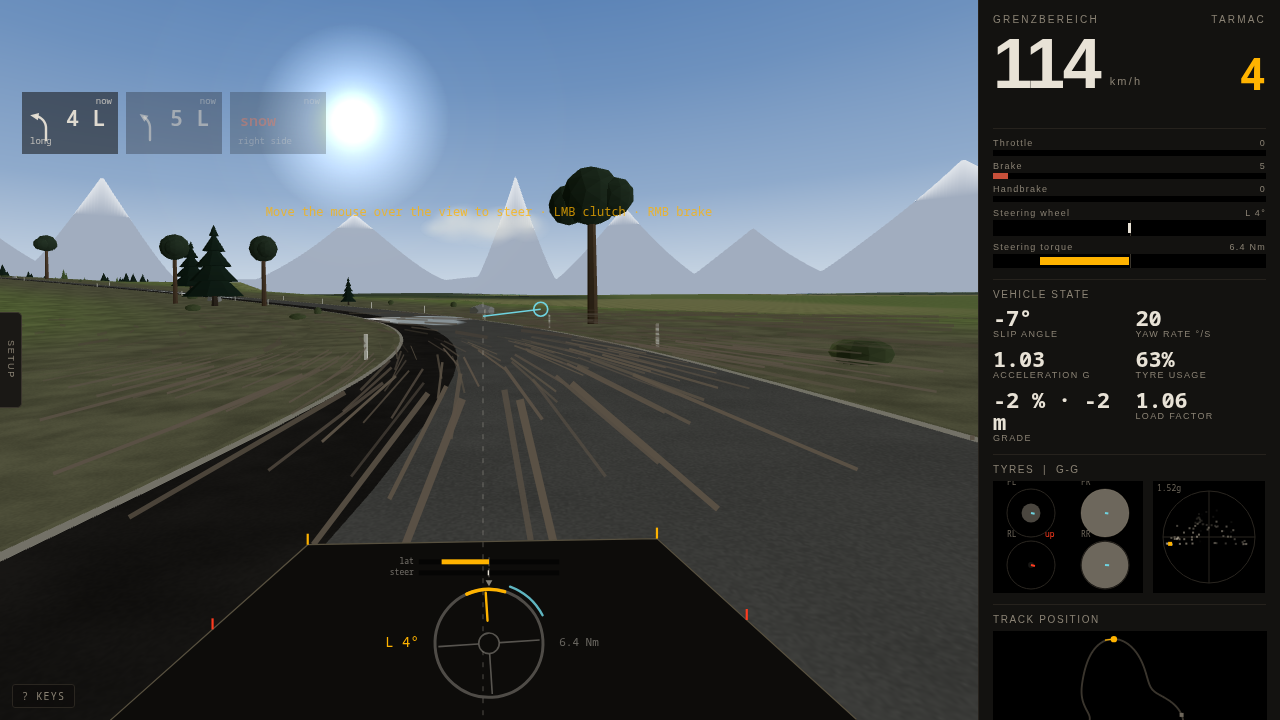
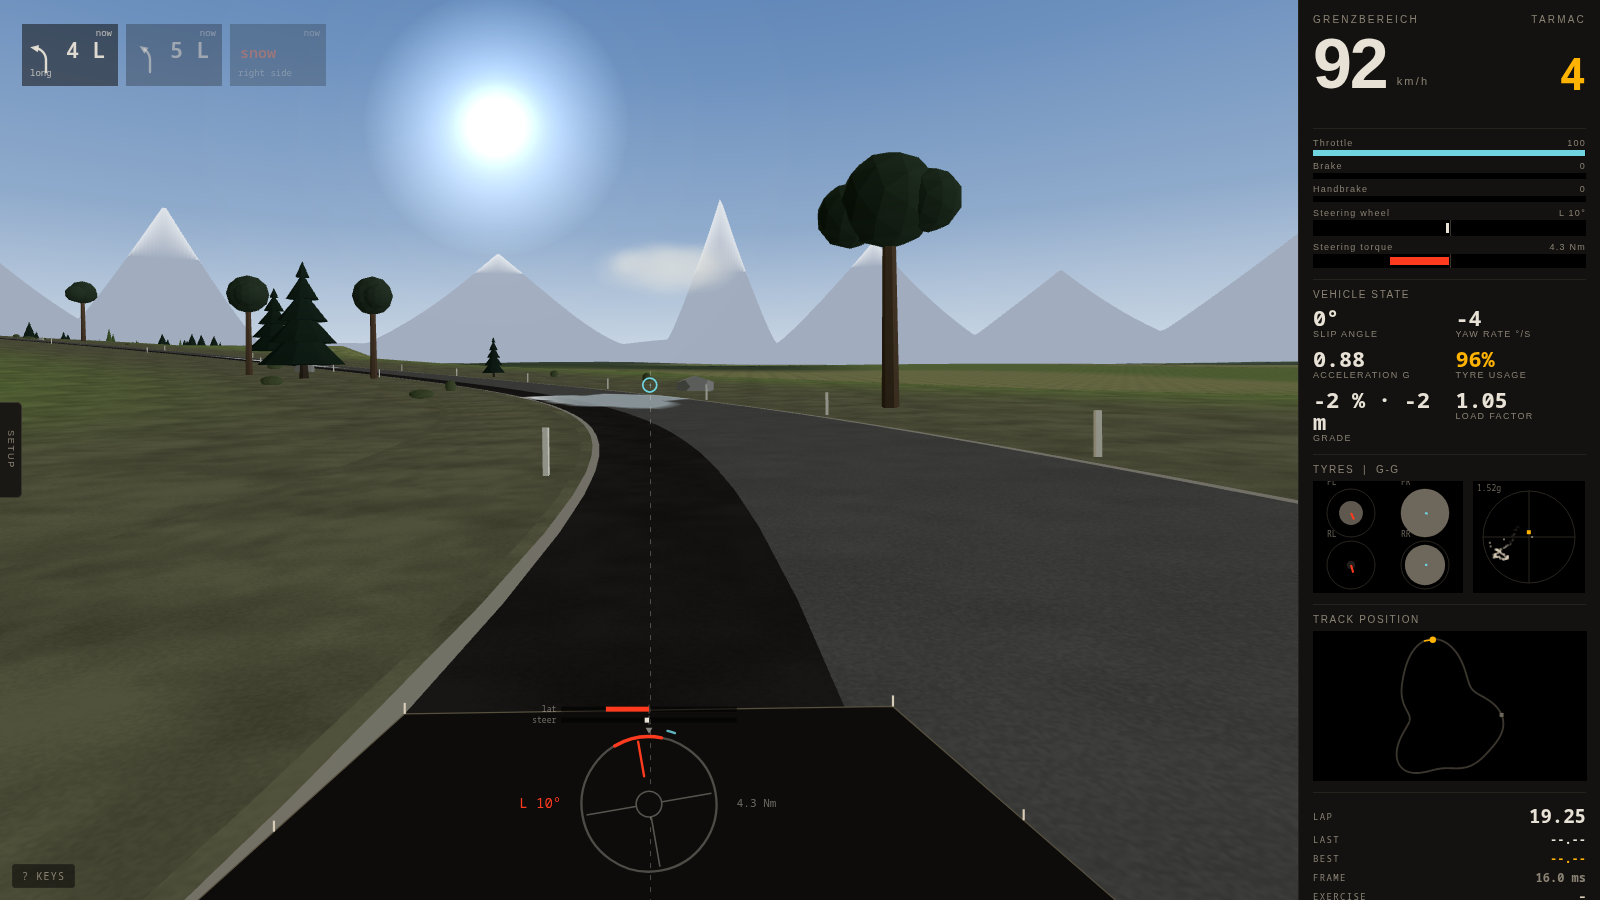
README: opening image rendered at 60 fps, without motion streaks

diff --git a/README.md b/README.md
@@ -2,7 +2,7 @@
 
 **Learn to drive a rally car at the limit of grip, right in your browser.**
 
-![Driver view at 114 km/h on an Alpine tarmac stage, with pace notes and the full instrument panel](docs/screenshots/driver-view-alpine.png)
+![Driver view at 92 km/h on an Alpine tarmac stage, tyres at 96 % of their grip, with pace notes and the full instrument panel](docs/screenshots/driver-view-alpine.png)
 
 Rally driving is decided in the last ten percent of grip. That is where the front starts to push, the rear steps out, lifting off the throttle turns the car and a locked wheel stops steering. In a real car you rarely get there, and when you do, it is over too fast to see what happened.
 
